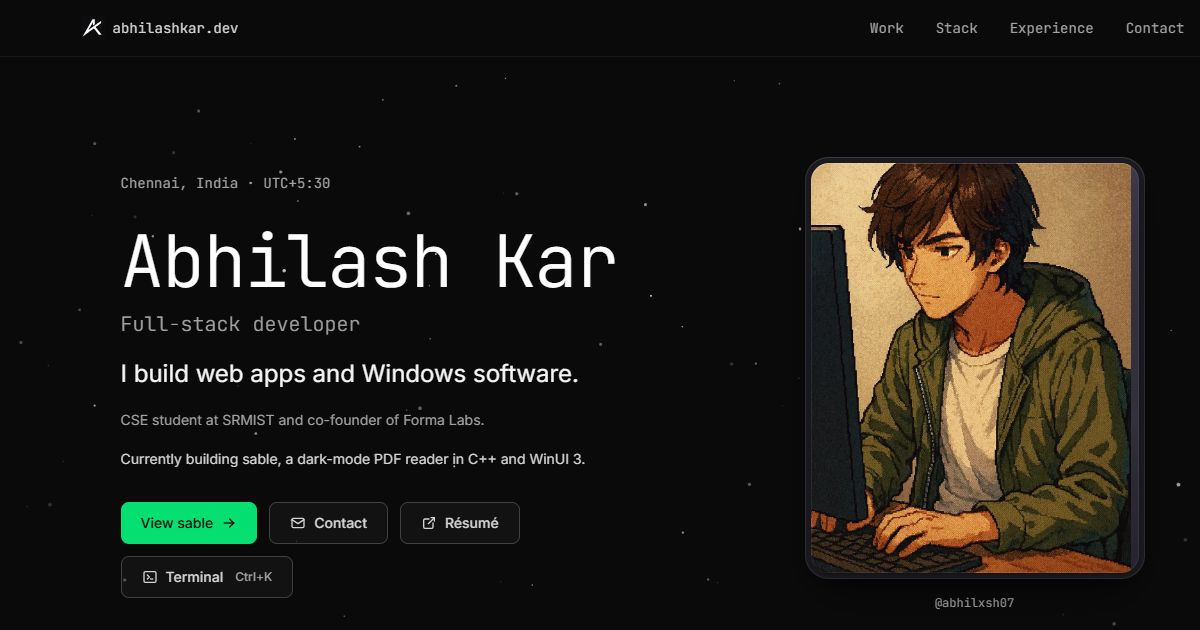
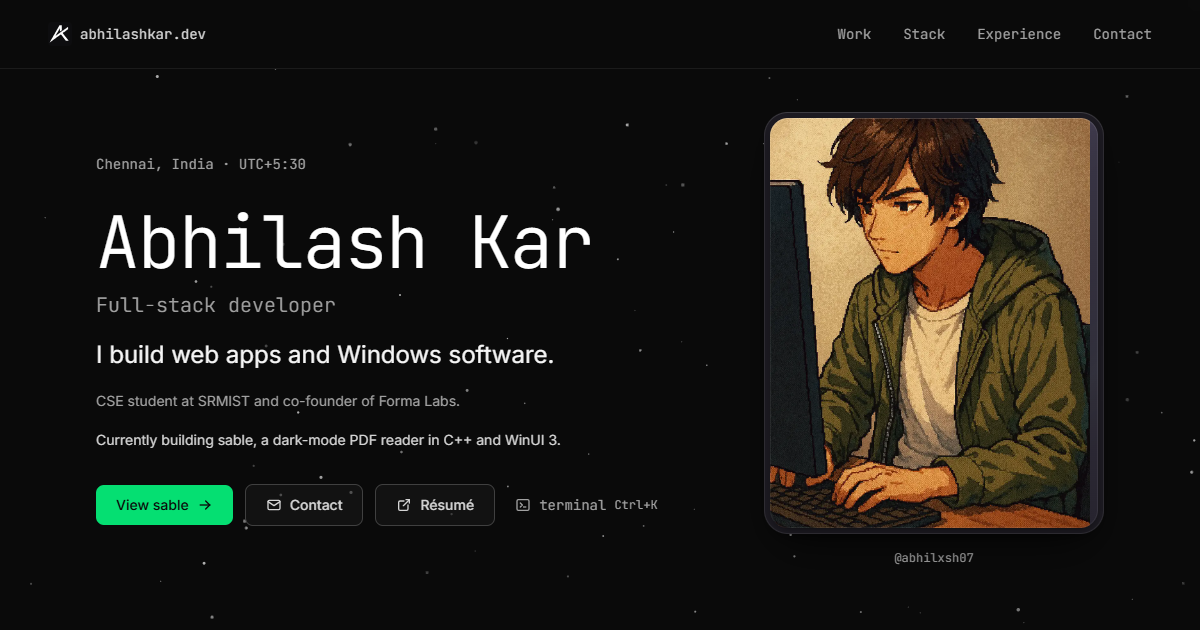
home card shows the notes shot now, and a fresh og image of the current hero

diff --git a/src/components/WorkPreviews.jsx b/src/components/WorkPreviews.jsx
@@ -1,6 +1,6 @@
 import { getProject } from "../data/portfolio";
 import CursusOverview from "./CursusOverview";
-import sableReader from "../assets/sable/reader.png";
+import sableNotes from "../assets/sable/notes.png";
 
 const previews = [
     {
@@ -8,11 +8,11 @@ const previews = [
         status: "In development",
         visual: (
             <img
-                src={sableReader}
+                src={sableNotes}
                 width={1440}
                 height={774}
                 loading="lazy"
-                alt="sable showing a sample document with the Default night preset and page thumbnails"
+                alt="sable with a highlight, an underline and a note on a sample page, listed in the comments panel"
                 className="w-full aspect-[1440/774] object-cover object-top border-b border-neutral-800"
             />
         )
